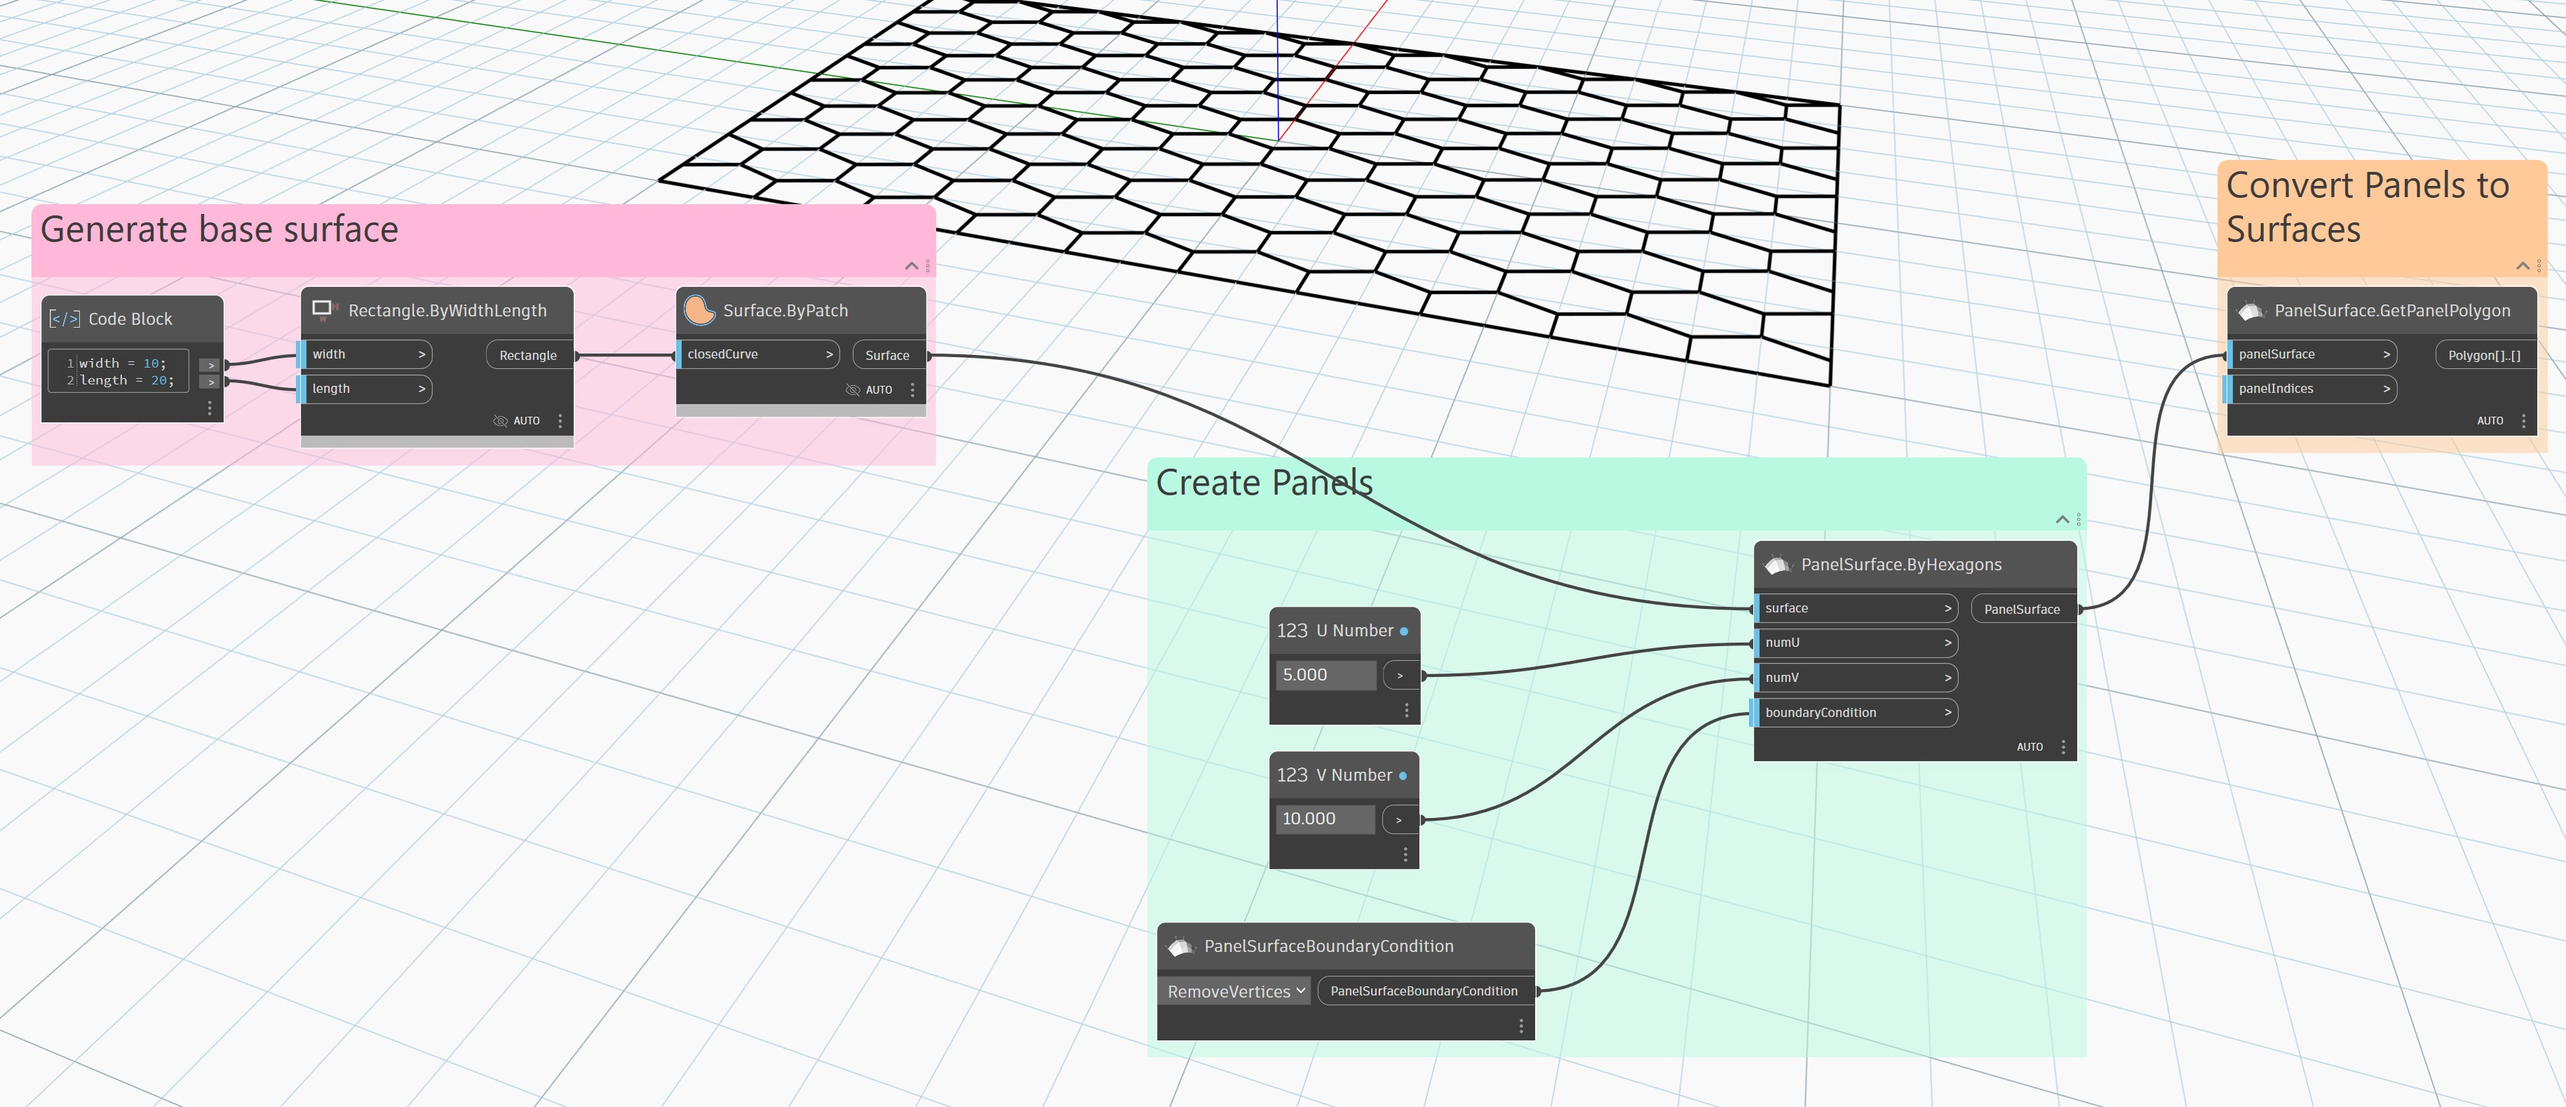
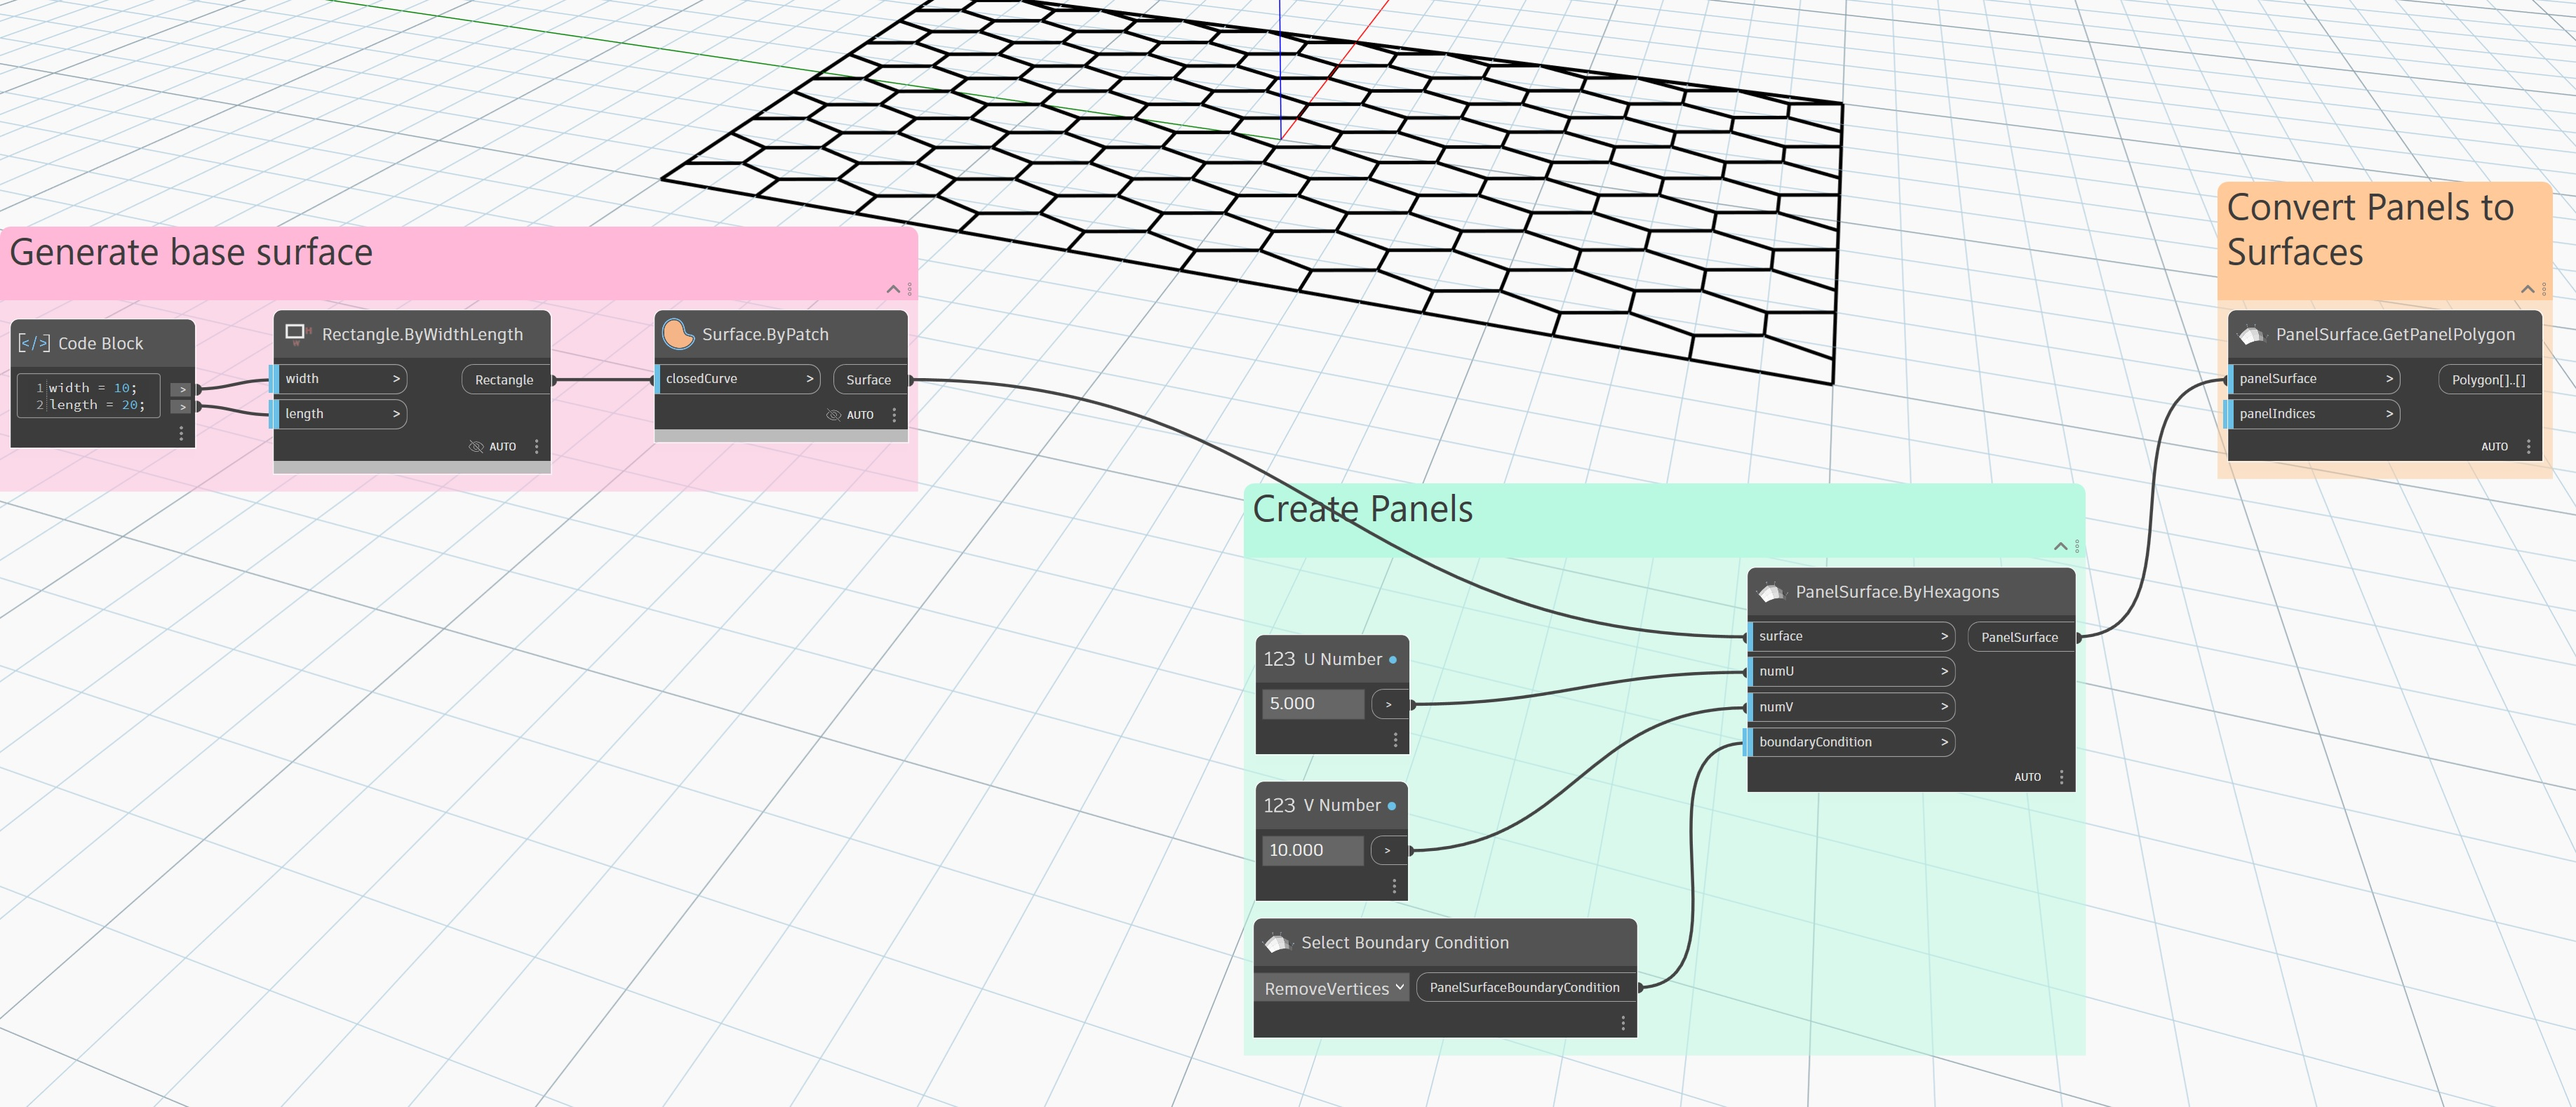
review comments

diff --git a/src/Libraries/GeometryUI/PanelSurfaceBoundaryConditions.cs b/src/Libraries/GeometryUI/PanelSurfaceBoundaryConditions.cs
@@ -13,7 +13,7 @@ using System.Linq;
 namespace GeometryUI
 {
     [IsVisibleInDynamoLibrary(true)]
-    [NodeName("PanelSurfaceBoundaryCondition")]
+    [NodeName("Select Boundary Condition")]
     [NodeCategory("Geometry.PanelSurface")]
     [NodeDescription("PanelSurfaceBoundaryConditionDropDownDesc", typeof(Properties.Resources))]
     [OutPortNames("PanelSurfaceBoundaryCondition")]
